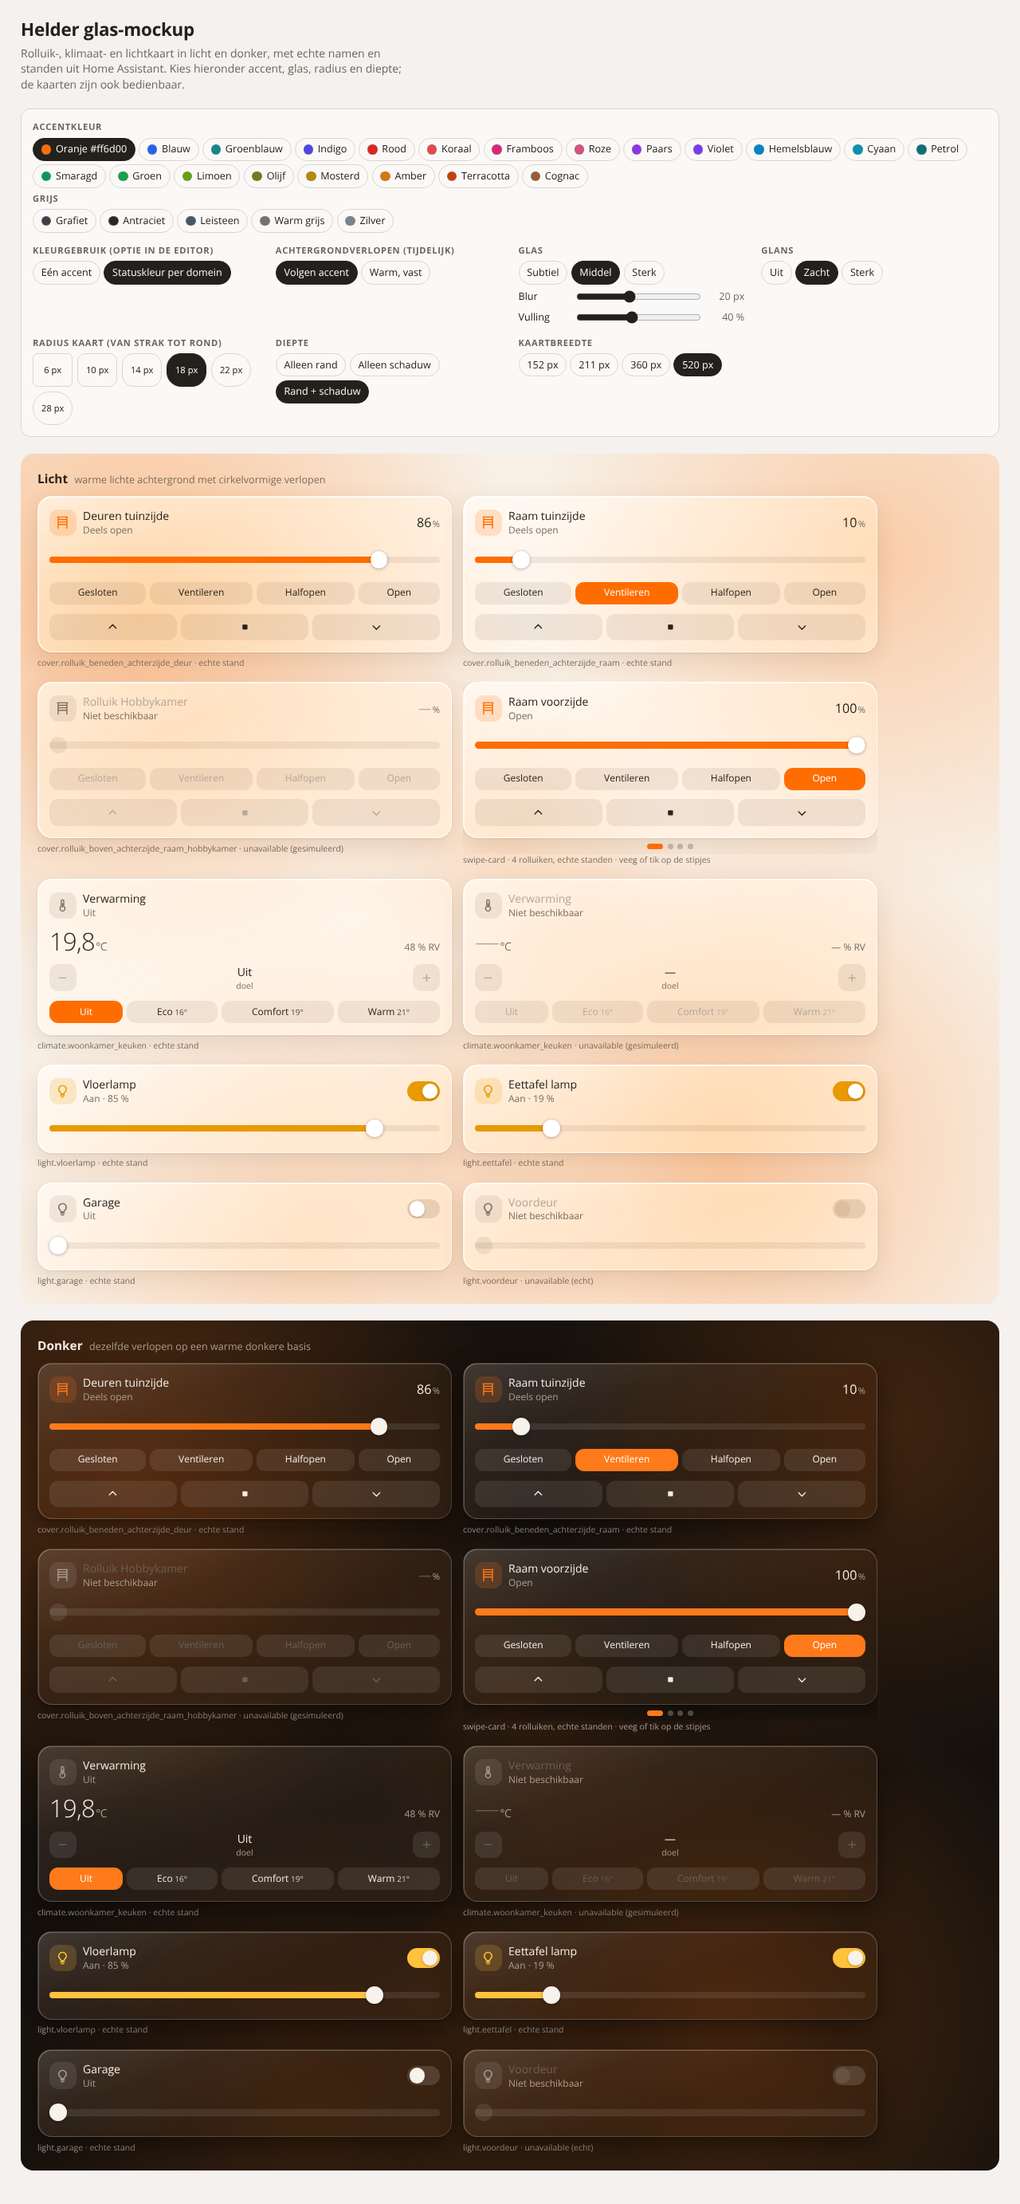
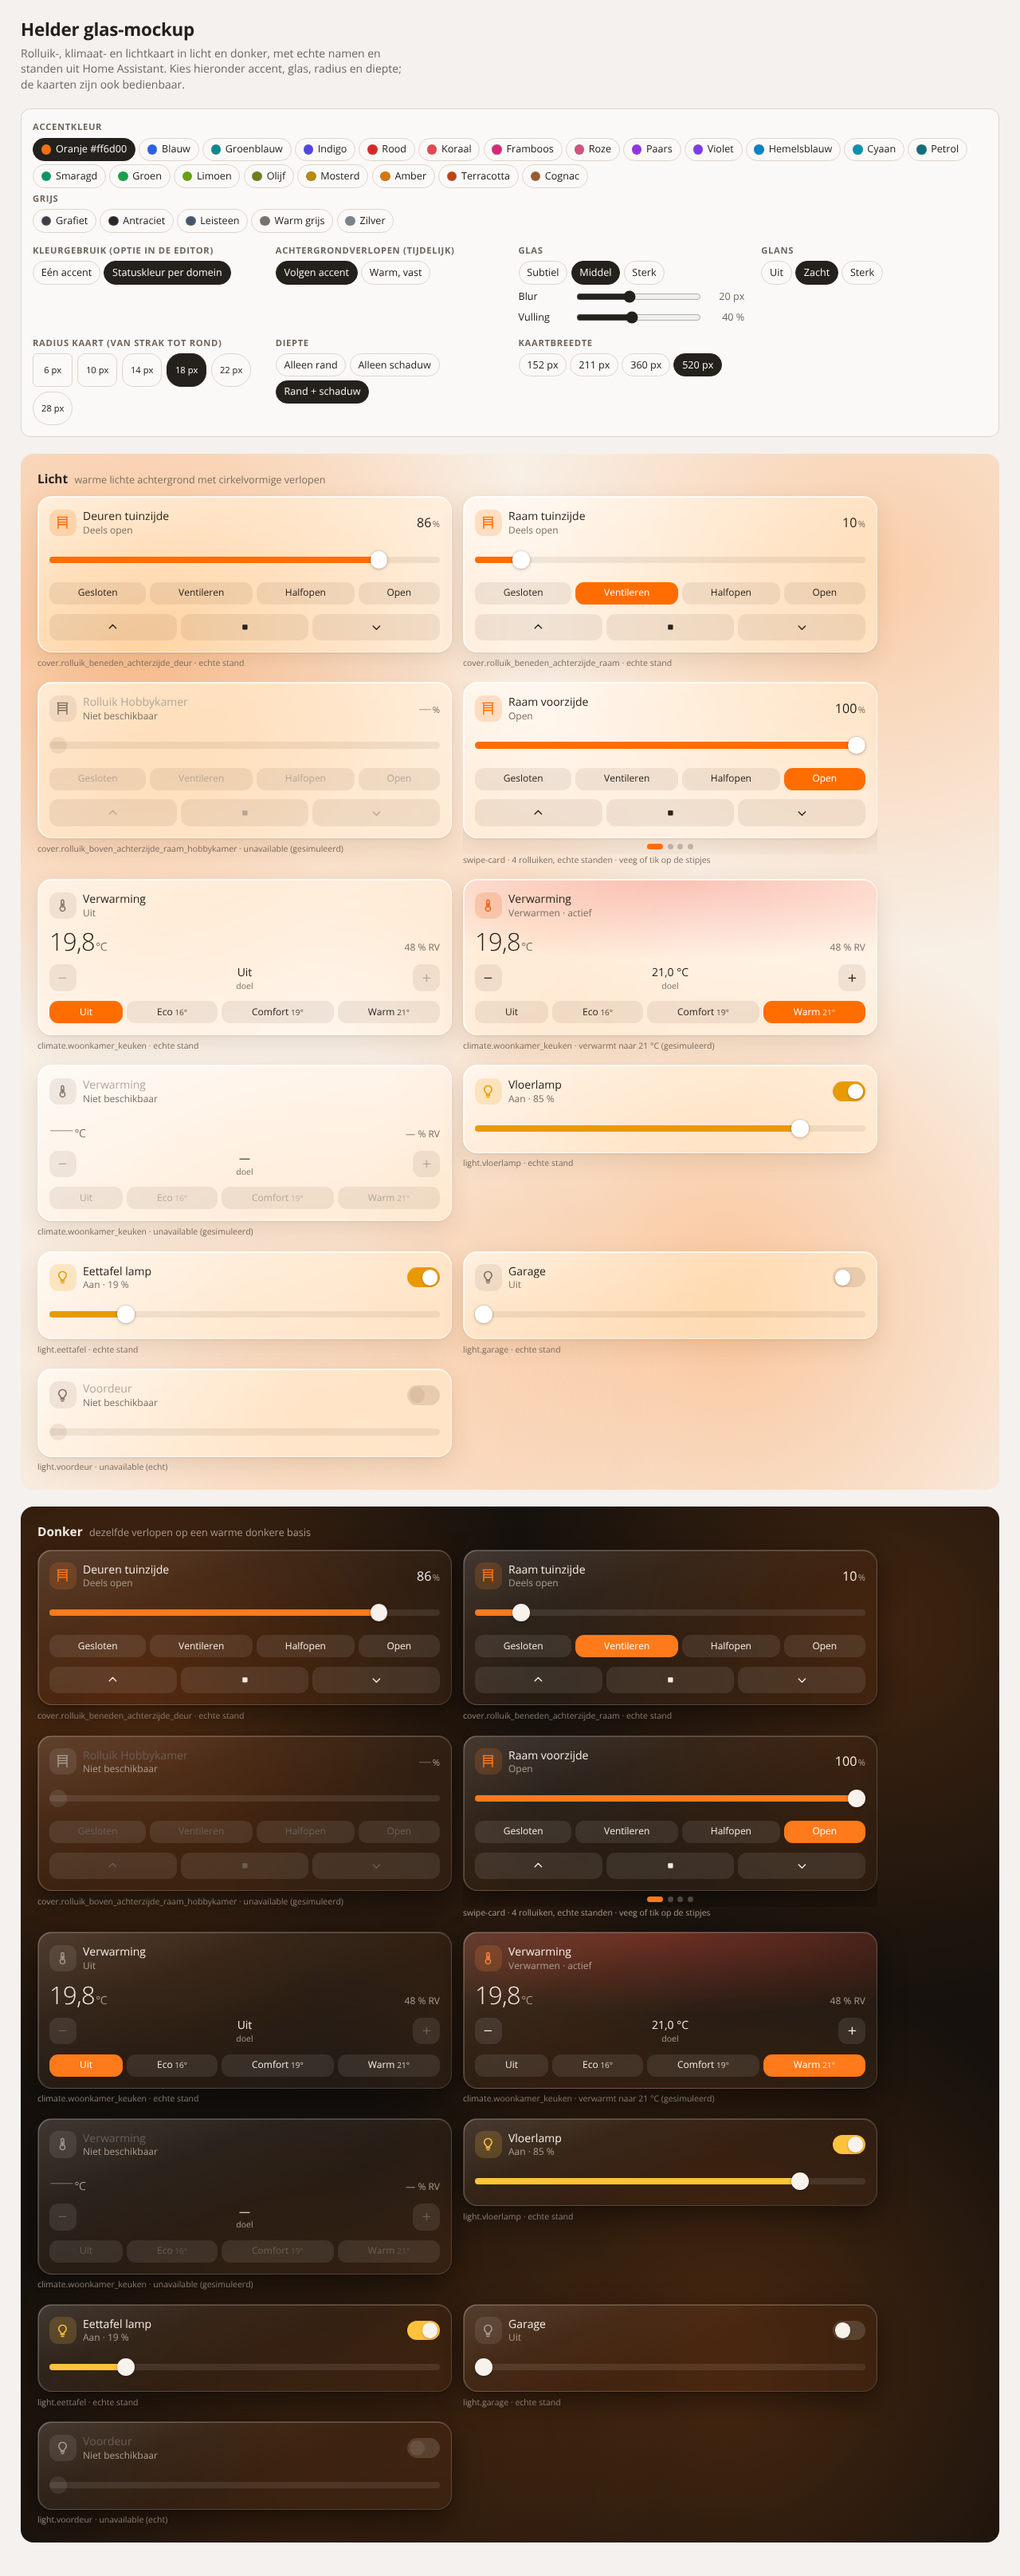
mockup: add red heating glow to active climate card
Claude-Session: https://claude.ai/code/session_0188TZibxehgLpvZx4MTqWFe

Changed region(s): [[0.0, 0.0, 1.0, 0.9957]]

diff --git a/mockup/glass.html b/mockup/glass.html
@@ -131,6 +131,7 @@ header p { margin: .3rem 0 0; color: var(--page-muted); max-width: 60ch; }
   --helder-thumb: #ffffff;
   --helder-color-light: #e89a00;
   --helder-color-heat: #e8590c;
+  --helder-heat-glow: rgba(235, 45, 30, .26);
 }
 .stage[data-mode="dark"] {
   --helder-color-bg: #16110d;
@@ -151,6 +152,7 @@ header p { margin: .3rem 0 0; color: var(--page-muted); max-width: 60ch; }
   --helder-thumb: #f8f2ec;
   --helder-color-light: #ffc23d;
   --helder-color-heat: #ff8a3d;
+  --helder-heat-glow: rgba(255, 70, 50, .30);
 }
 /* accentkleur: per modus gezet vanuit het paneel (zie ACCENTS in het script) */
 /* tijdelijk: achtergrondverlopen volgen de accentkleur */
@@ -199,6 +201,7 @@ figcaption b { font-weight: 400; }
   container-type: inline-size;
   /* glans: diagonale lichtval bovenaan + glasvulling */
   background:
+    var(--card-glow, linear-gradient(transparent, transparent)),
     linear-gradient(160deg, rgba(255, 255, 255, var(--helder-gloss)) 0%, rgba(255, 255, 255, calc(var(--helder-gloss) * .25)) 30%, rgba(255, 255, 255, 0) 55%),
     linear-gradient(var(--helder-glass-fill), var(--helder-glass-fill));
   -webkit-backdrop-filter: blur(var(--helder-glass-blur)) saturate(170%);
@@ -313,6 +316,9 @@ figcaption b { font-weight: 400; }
 .dot:focus-visible { outline: 2px solid var(--helder-color-accent); outline-offset: 2px; }
 @media (prefers-reduced-motion: reduce) { .dot { transition: none; } }
 
+/* klimaat: rode gloed vanaf de bovenrand zolang de verwarming actief verwarmt */
+.card.heating { --card-glow: radial-gradient(ellipse 130% 75% at 50% 0%, var(--helder-heat-glow) 0%, transparent 70%); }
+
 /* onbeschikbaar: alleen kleuren veranderen */
 .card.na .name, .card.na .value, .card.na .big { color: var(--helder-color-disabled); }
 
@@ -426,6 +432,7 @@ figcaption b { font-weight: 400; }
       { kind: 'cover', id: 'cover.rolluik_boven_achterzijde_raam_scott', name: 'Raam slaapkamer Scott', pos: 60 }
     ] },
     { kind: 'climate', id: 'climate.woonkamer_keuken', name: 'Verwarming', area: 'Woonkamer & Keuken', mode: 'off', cur: 19.8, hum: 47.8, target: 19, min: 16, max: 22, step: .5 },
+    { kind: 'climate', id: 'climate.woonkamer_keuken', name: 'Verwarming', area: 'Woonkamer & Keuken', mode: 'heat', cur: 19.8, hum: 47.8, target: 21, min: 16, max: 22, step: .5, sim: true },
     { kind: 'climate', id: 'climate.woonkamer_keuken', name: 'Verwarming', area: 'Woonkamer & Keuken', na: true, sim: true, min: 16, max: 22, step: .5 },
     { kind: 'light', id: 'light.vloerlamp', name: 'Vloerlamp', area: 'Woonkamer', on: true, bri: 217 },
     { kind: 'light', id: 'light.eettafel', name: 'Eettafel lamp', area: 'Woonkamer & Keuken', on: true, bri: 49 },
@@ -458,7 +465,7 @@ figcaption b { font-weight: 400; }
     const sub = na ? 'Niet beschikbaar' : off ? 'Uit' : 'Verwarmen';
     const active = !na && !off && e.cur < e.target;
     const presetOn = (v) => !na && (v === null ? off : (!off && e.target === v));
-    return `<div class="card ${na ? 'na' : (!off ? 'active' : '')}" style="--state:var(--helder-state-heat)">
+    return `<div class="card ${na ? 'na' : (!off ? 'active' : '')}${active ? ' heating' : ''}" style="--state:var(--helder-state-heat)">
       <div class="head"><div class="icon">${I.therm}</div>
         <div class="text"><div class="name">${e.name}</div><div class="sub">${sub}${active ? ' · actief' : ''}</div></div></div>
       <div class="readout"><div class="big">${na ? '—' : fmt(e.cur)}<span class="unit">°C</span></div>
@@ -496,7 +503,7 @@ figcaption b { font-weight: 400; }
 
   function caption(e) {
     if (e.kind === 'swipe') return `<figcaption><b>swipe-card</b> · ${e.items.length} rolluiken, echte standen · veeg of tik op de stipjes</figcaption>`;
-    const note = e.na ? (e.sim ? 'unavailable (gesimuleerd)' : 'unavailable (echt)') : 'echte stand';
+    const note = e.na ? (e.sim ? 'unavailable (gesimuleerd)' : 'unavailable (echt)') : e.sim ? 'verwarmt naar 21 °C (gesimuleerd)' : 'echte stand';
     return `<figcaption><b>${e.id}</b> · ${note}</figcaption>`;
   }
   function renderStage(s) {

diff --git a/docs/design.md b/docs/design.md
@@ -96,4 +96,5 @@ deploy/deploy.sh uitrol naar HA
 | 2026-11-15 | Lichtkaart: aan/uit met helderheidsslider |
 | 2026-11-15 | Claude mag de hele HA-installatie lezen (alleen lezen; wijzigen blijft na toestemming) |
 | 2026-11-15 | Geen vetgedrukte tekst in kaarten: alle kaarttekst normaal gewicht (400), grote readouts licht (300) |
+| 2026-11-15 | Klimaatkaart: zolang de verwarming actief verwarmt (`hvac_action: heating`), toont de kaart een lichte rode gloed vanaf de bovenrand richting het midden (token `--helder-heat-glow`) |
 | 2026-11-15 | Fundamentwerk in deze thread op branch `claude/project-thread-ganvgt`; merge naar `main` na akkoord |
